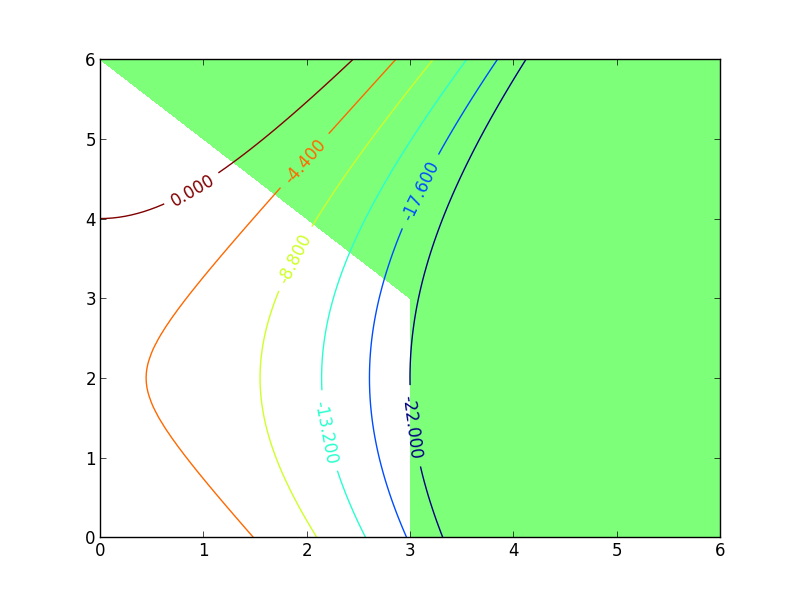
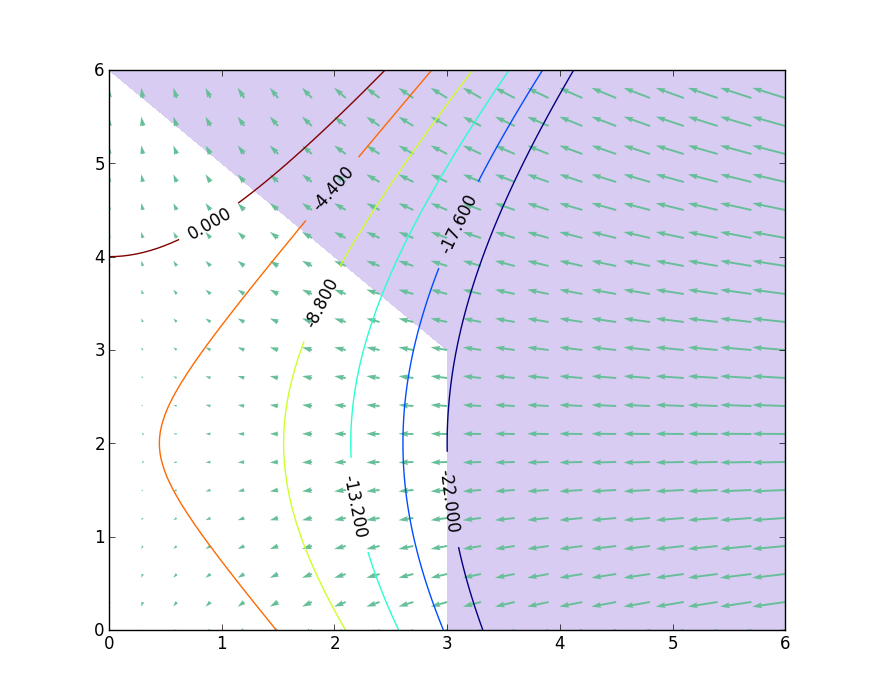
Adding gradient visualization in graphical optimization.

diff --git a/src/graphical_optimization.py b/src/graphical_optimization.py
@@ -1,5 +1,6 @@
 from matplotlib import pyplot as pyplot
-from numpy import zeros, meshgrid
+from numpy import zeros, meshgrid, linspace
+from calculus import gradient
 
 # todo: Replace these for a nice enum python implementation
 OBJECTIVE_FUNCTION=0
@@ -30,22 +31,32 @@ def contourTwoVariablefunction(x1_domain, x2_domain, f, functionType, levels=Non
             f_image[i,j] = f(x1, x2)
             
     if functionType == INEQUALITY_CONSTRAINT:
-        cs = pyplot.contourf(X1, X2,f_image, [0,max(max(x1_domain), max(x2_domain))], colors=((0.75,0.75,0.75,),))
+        cs = pyplot.contourf(X1, X2,f_image, [0,max(max(x1_domain), max(x2_domain))], colors=((0.85,0.8,0.95,),))
     elif functionType == EQUALITY_CONSTRAINT:
-        cs = pyplot.contour(X1, X2,f_image, [0])
+        cs = pyplot.contour(X1, X2,f_image, [0], linewidths=2.0)
     elif functionType == OBJECTIVE_FUNCTION:
         if levels is not None:
             cs = pyplot.contour(X1, X2,f_image, levels)
         else:
             cs = pyplot.contour(X1, X2,f_image)
-#         pyplot.quiver(X1,X2,(10,10),(10,10))
         pyplot.clabel(cs, colors='k')
     return cs
 
 
-def quiverGradientOf2dFunction(x1_domain, x2_domain, f, functionType, levels=None):
-    X1, X2 = meshgrid(x1_domain, x2_domain)
-    epsilon = 1e-9
+def gradientOf2dFunction(x1_domain, x2_domain, f, eval_points=15):
+    def ff(x):
+        return f(x[0], x[1])
     
-    f_image = zeros((len(x1_domain),len(x2_domain)))
-    f_image = zeros((len(x1_domain),len(x2_domain)))
+    xx1 = linspace(x1_domain[0],x1_domain[-1], eval_points)
+    xx2 = linspace(x2_domain[0],x2_domain[-1], eval_points)
+    xx1, xx2 = meshgrid(xx1, xx2)
+    U = zeros((   len(xx1), len(xx2) ))
+    V = zeros((   len(xx1), len(xx2) ))
+    for i in xrange(len(xx1)):
+        for j in xrange(len(xx2)):
+            x = xx1[i,j]
+            y = xx2[i,j]
+            U[i,j] = gradient(ff, [x,y] )[1]
+            V[i,j] = gradient(ff, [x,y] )[0]
+    pyplot.quiver(xx2, xx1, U,V, color=((0.4,0.75,0.6)))
+    

diff --git a/src/assignments/first_assignment.py b/src/assignments/first_assignment.py
@@ -2,7 +2,7 @@ from matplotlib import pyplot as pyplot
 from numpy import linspace
 
 from graphical_optimization import contourTwoVariablefunction, EQUALITY_CONSTRAINT, \
-    INEQUALITY_CONSTRAINT, OBJECTIVE_FUNCTION
+    INEQUALITY_CONSTRAINT, OBJECTIVE_FUNCTION, gradientOf2dFunction
 
 def exercise_3_1():
     x_vector = linspace(0.0, 4.0, 300)
@@ -15,6 +15,7 @@ def exercise_3_1():
     
     contourTwoVariablefunction(x_vector, y_vector,f, OBJECTIVE_FUNCTION,levels=linspace(0.0, 15.0,16))
     contourTwoVariablefunction(x_vector, y_vector,g, INEQUALITY_CONSTRAINT)
+    gradientOf2dFunction(x_vector, y_vector, f)
     pyplot.show()
     
 def exercise_3_8():
@@ -27,10 +28,18 @@ def exercise_3_8():
         return x1 + x2 - 6
     def g2(x1, x2):
         return x2 - 3
+    def g3(x1, x2):
+        return -x1
+    def g4(x1, x2):
+        return -x2
             
-    contourTwoVariablefunction(x1_domain, x2_domain,f, OBJECTIVE_FUNCTION, levels=linspace(0,-22,6))
     contourTwoVariablefunction(x1_domain, x2_domain,g1, INEQUALITY_CONSTRAINT)
     contourTwoVariablefunction(x1_domain, x2_domain,g2, INEQUALITY_CONSTRAINT)
+    contourTwoVariablefunction(x1_domain, x2_domain,g3, INEQUALITY_CONSTRAINT)
+    contourTwoVariablefunction(x1_domain, x2_domain,g4, INEQUALITY_CONSTRAINT)
+    contourTwoVariablefunction(x1_domain, x2_domain,f, OBJECTIVE_FUNCTION, levels=linspace(0,-22,6))
+    gradientOf2dFunction(x1_domain, x2_domain, f,21)
+    
     pyplot.show()
     
     
@@ -43,8 +52,9 @@ def exercise_3_13():
     def g1(x1, x2):
         return x1**2. + x2**2. + 2.*x1 - 16
             
-    contourTwoVariablefunction(x1_domain, x2_domain,f, levels=linspace(210, 600, 6))
+    contourTwoVariablefunction(x1_domain, x2_domain,f, OBJECTIVE_FUNCTION, levels=linspace(210, 600, 6))
     contourTwoVariablefunction(x1_domain, x2_domain,g1, EQUALITY_CONSTRAINT)
+    gradientOf2dFunction(x1_domain, x2_domain, f)
     pyplot.show()
     
 if __name__ == "__main__":
